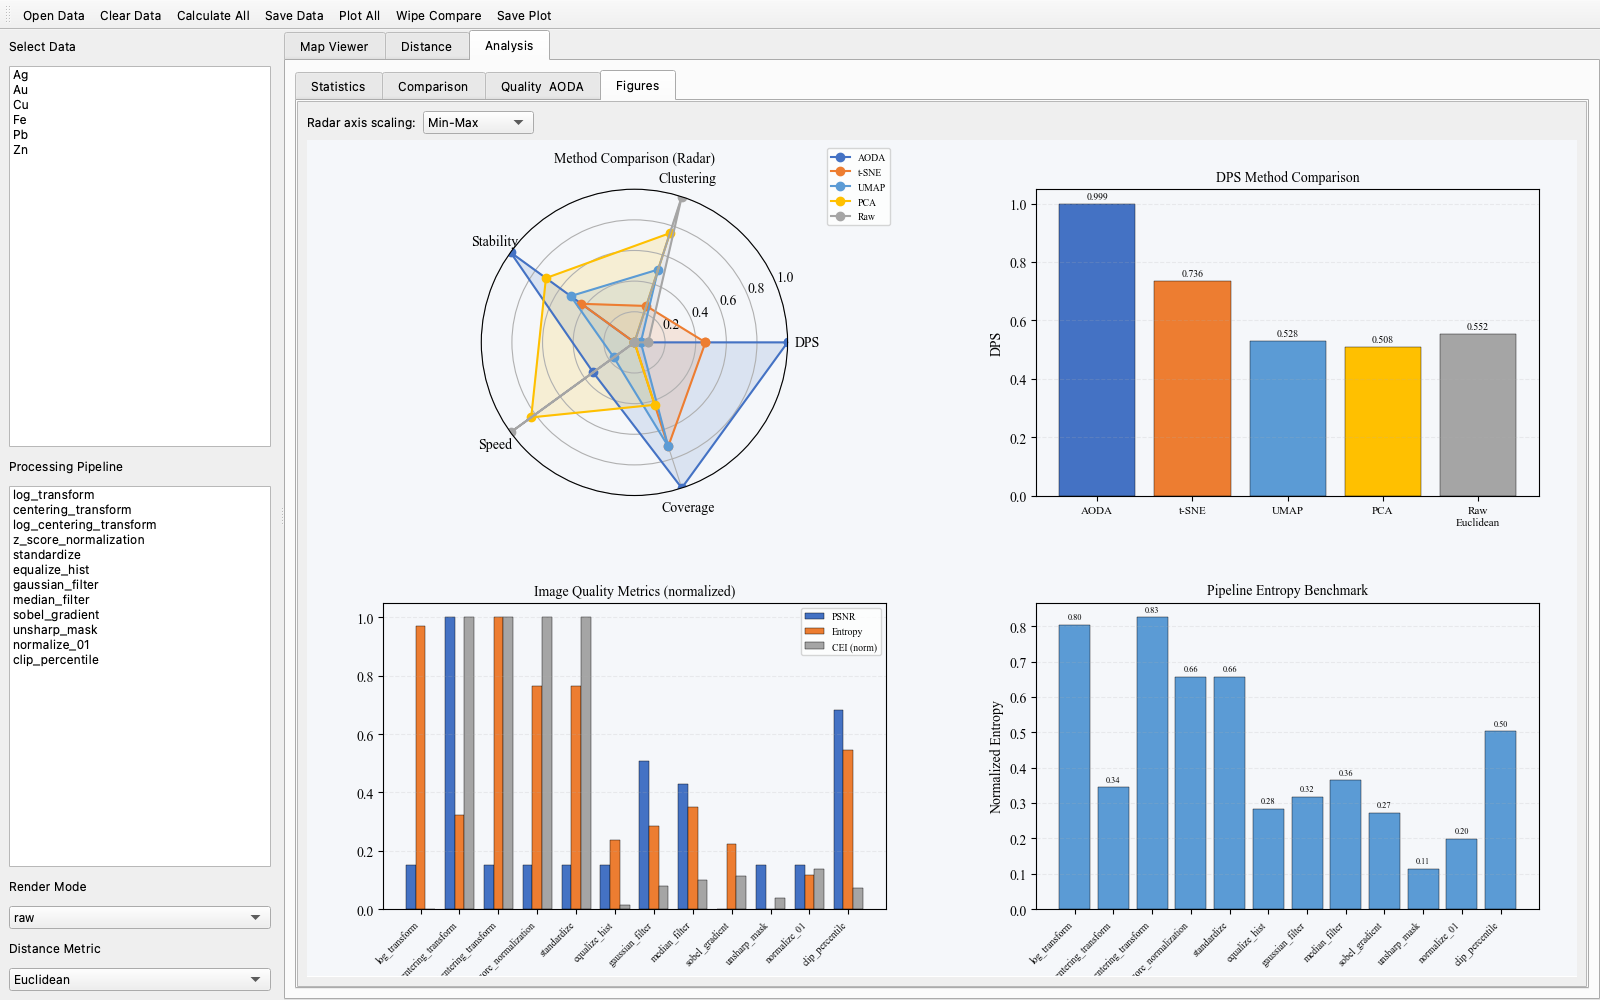
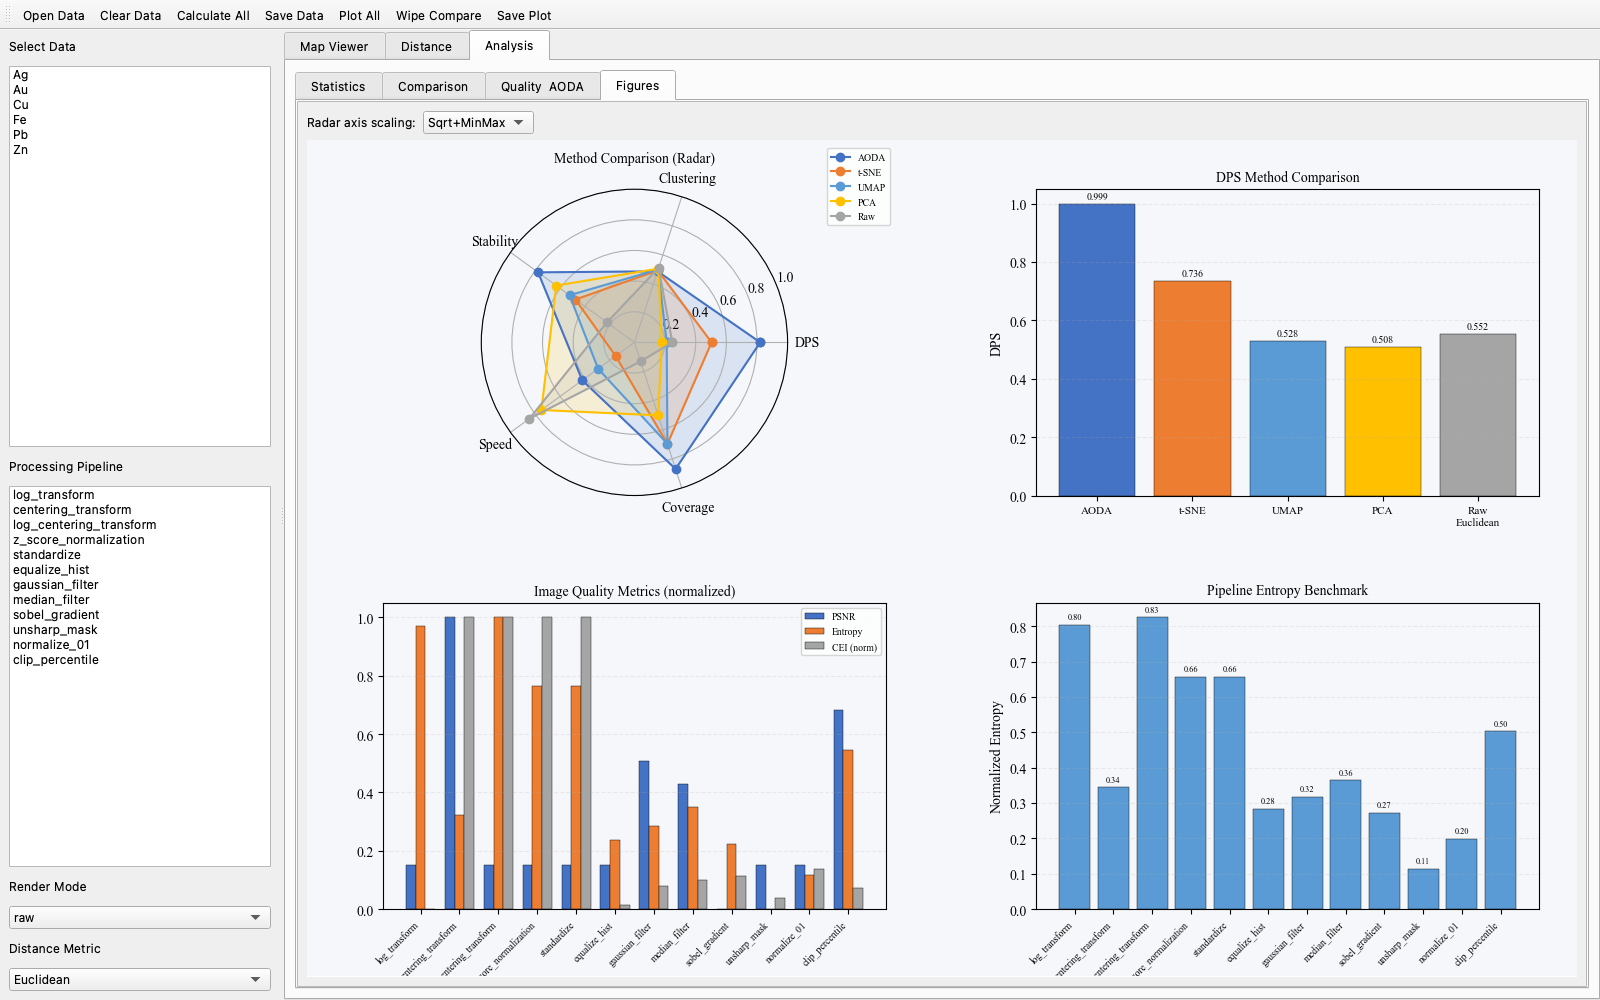
v1.4.1: radar epsilon-padded min-max + default to Sqrt+MinMax

Changed region(s): [[0.3125, 0.217, 0.5, 0.496], [0.2812, 0.093, 0.3125, 0.124]]

diff --git a/cpsvisualizer/src/cpsvisualizer/app.py b/cpsvisualizer/src/cpsvisualizer/app.py
@@ -667,6 +667,7 @@ class CPSVisualizer(QMainWindow):
         mode_bar.addWidget(QLabel('Radar axis scaling:'))
         self._radar_mode = QComboBox()
         self._radar_mode.addItems(['Min-Max', 'Z-Score', 'Log+MinMax', 'Sqrt+MinMax'])
+        self._radar_mode.setCurrentText('Sqrt+MinMax')  # balanced default
         self._radar_mode.currentTextChanged.connect(
             lambda _: self._on_analysis_tab_changed(3))
         mode_bar.addWidget(self._radar_mode)
@@ -1470,13 +1471,15 @@ class CPSVisualizer(QMainWindow):
             # store back
             for mi, m in enumerate(methods):
                 scores[m][d] = vals[mi]
-        # min-max normalise each dimension to [0, 1]
+        # min-max normalise each dimension to [0, 1] (with epsilon padding
+        # so the worst method on each axis doesn't collapse to the centre)
+        eps = 0.08
         for d in range(5):
             vals = [scores[m][d] for m in methods]
             vmin, vmax = min(vals), max(vals)
-            if vmax - vmin > 1e-12:
-                for m in methods:
-                    scores[m][d] = (scores[m][d] - vmin) / (vmax - vmin)
+            rng = max(vmax - vmin, 1e-12) + 2 * eps
+            for m in methods:
+                scores[m][d] = (scores[m][d] - vmin + eps) / rng
 
         angles = _np.linspace(0, 2 * _np.pi, len(dims), endpoint=False).tolist()
         angles += angles[:1]

diff --git a/cpsvisualizer/src/setup.py b/cpsvisualizer/src/setup.py
@@ -15,7 +15,7 @@ except Exception:
 
 setup(
     name='cpsvisualizer',
-    version='1.4.0',
+    version='1.4.1',
     description='CPS-Visualizer: Visualization, similarity measurement, and statistical analysis of LA-ICP-MS surface scan data.',
     long_description=README,
     long_description_content_type='text/markdown',
